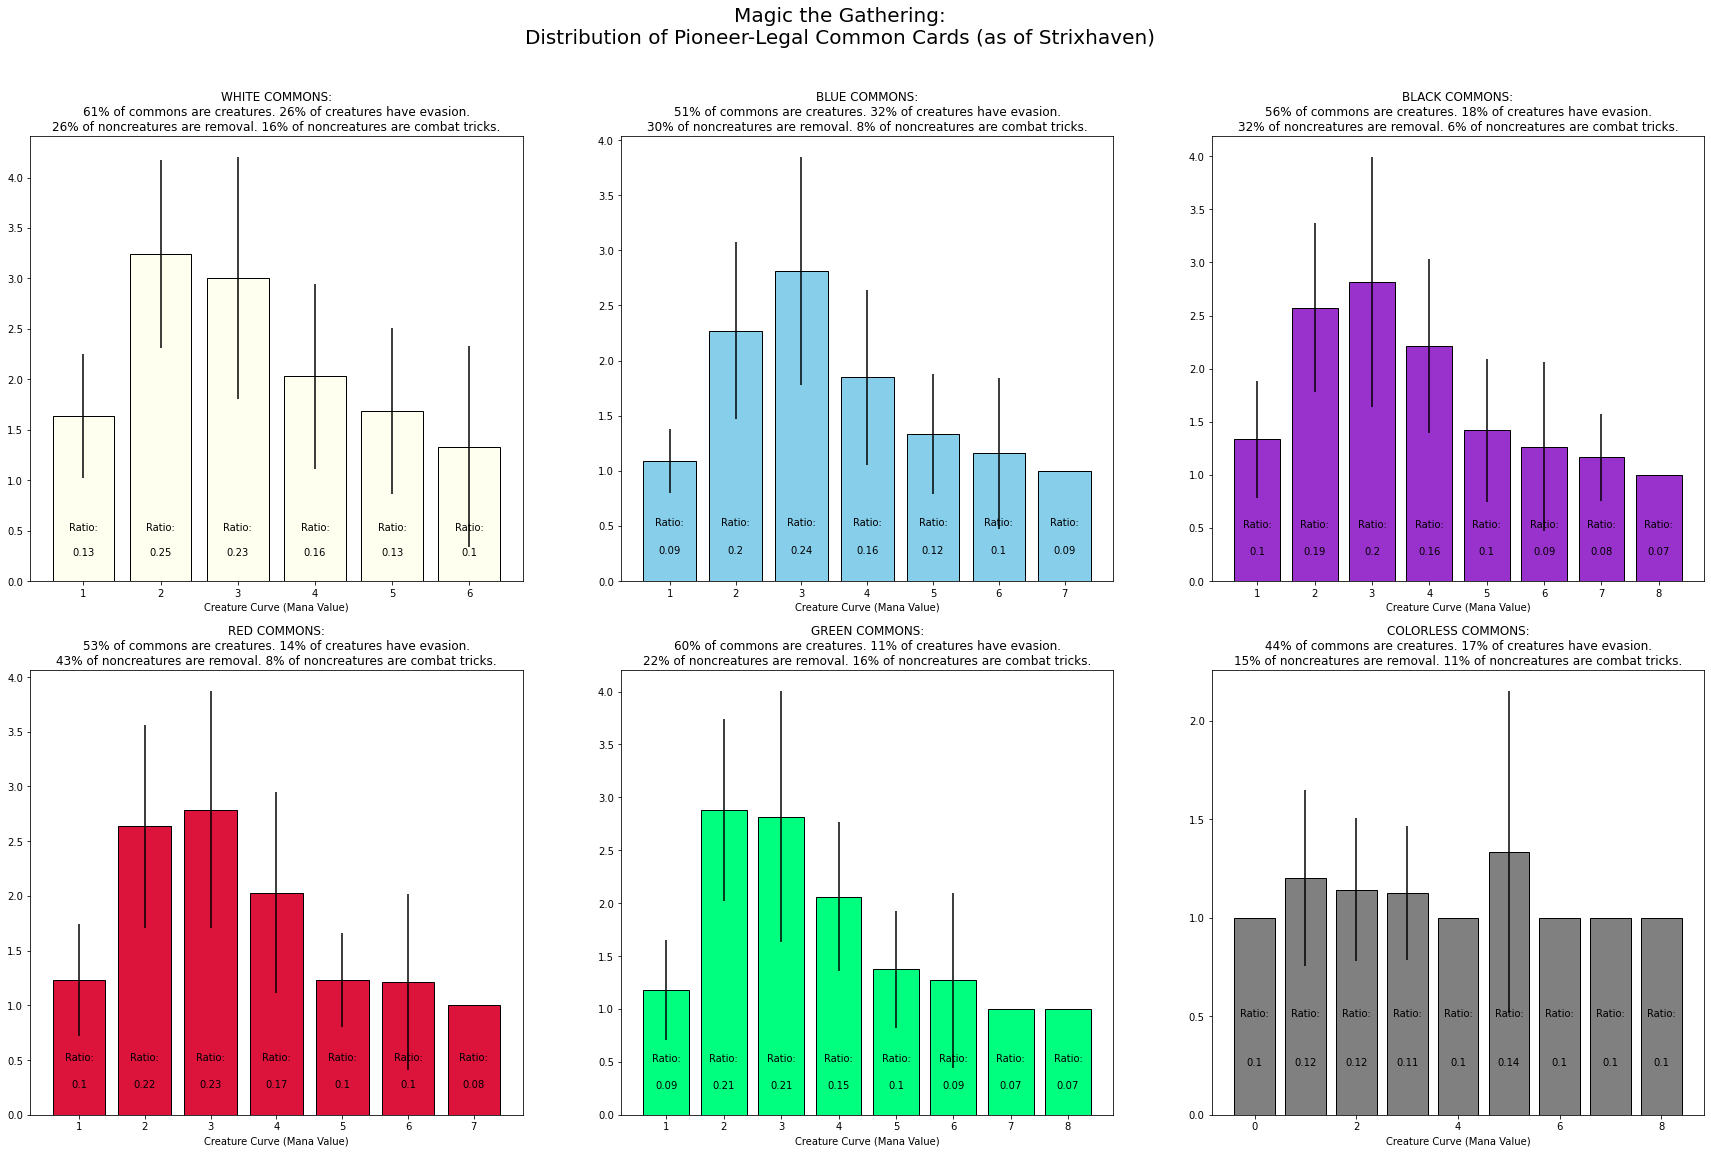
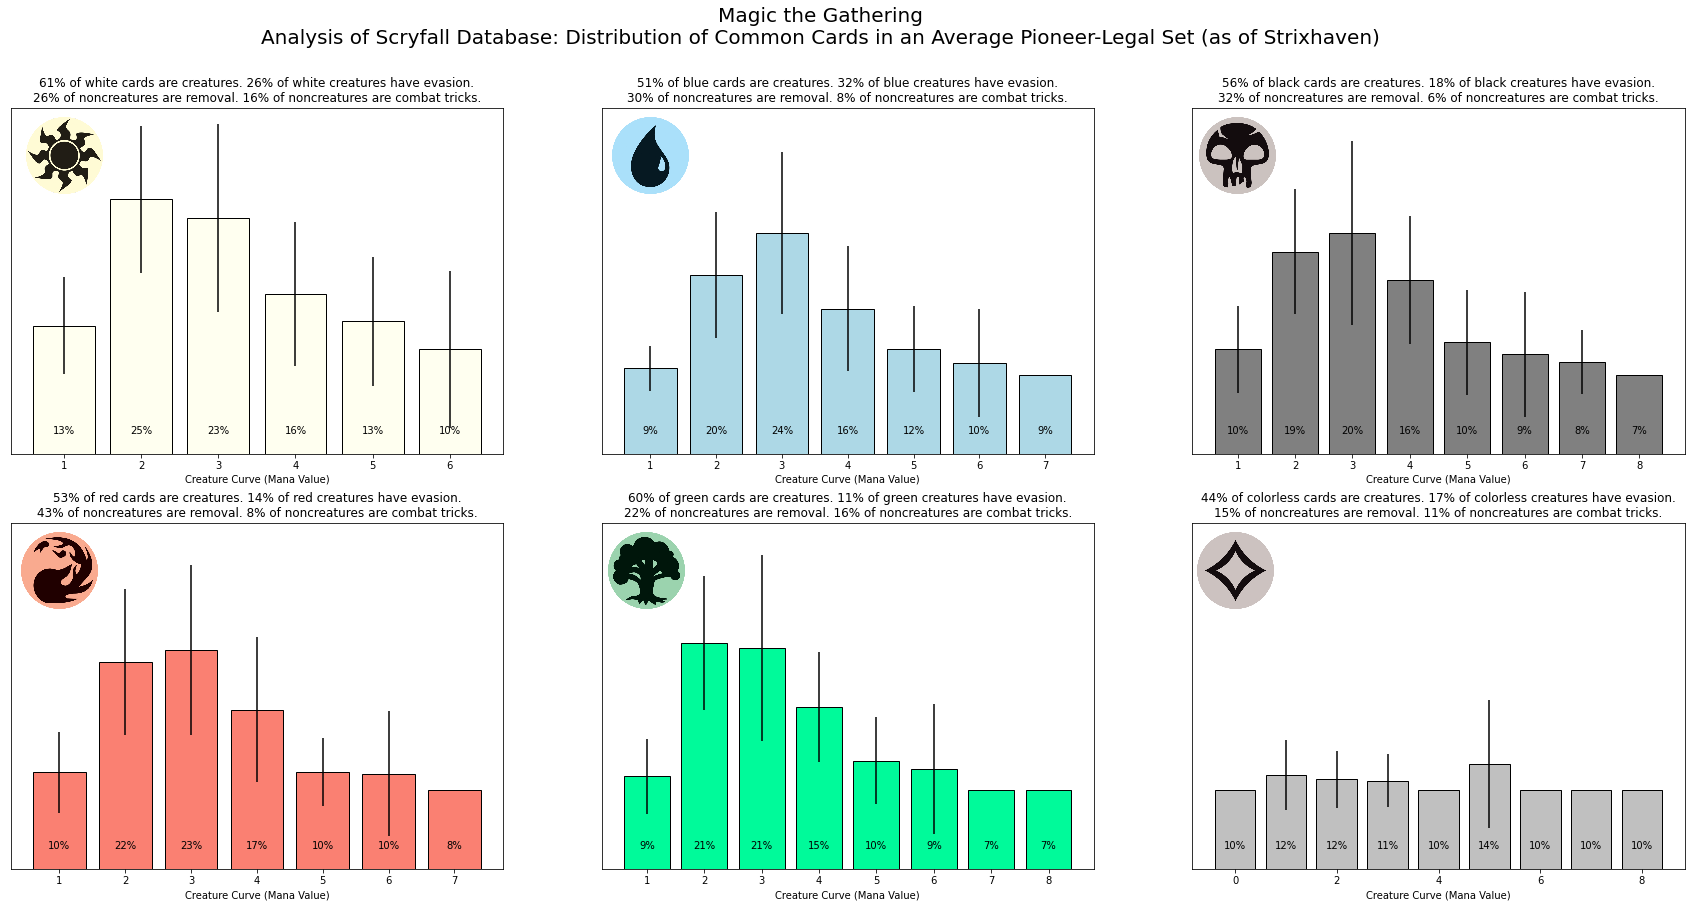
finalize scryfall analysis
added images to top left corner of each axis for clarity

diff --git a/scryfall_pioneer_commons.py b/scryfall_pioneer_commons.py
@@ -6,15 +6,13 @@ Created on Tue Jun 15 10:15:31 2021
 
 """
 
-import datetime
-print("Script last ran on", datetime.datetime.today().strftime("%m/%d/%Y"))
-
 # libraries
 import numpy as np
 import pandas as pd
 from matplotlib import pyplot as plt
+from matplotlib import image as mpimg
+from matplotlib.offsetbox import OffsetImage, AnnotationBbox
 import re
-import requests
 
 # data
 pioneer = pd.read_csv('scryfall_pioneer_20210614.csv')
@@ -104,17 +102,24 @@ def creature_curve_variables(color_identity):
     
     return creature_ratio, creatures_w_evasion, creature_curve_df, noncreature_removal_spell_ratio, noncreature_combat_trick_ratio
 
+## function for inserting images into each axis
+def create_artist(filename, x_coord, y_coord):
+    sym = mpimg.imread('images/{}.png'.format(filename))
+    imagebox = OffsetImage(sym, zoom = 0.15)
+    ab = AnnotationBbox(imagebox, (x_coord, y_coord), frameon=False)
+    return ab
+
 ## set up the plot
-fig, axs = plt.subplots(2,3)
-fig.set_figheight(18)
+fig, axs = plt.subplots(2,3, sharey=True)
+fig.set_figheight(14)
 fig.set_figwidth(30)
-fig.suptitle('Magic the Gathering:\nDistribution of Pioneer-Legal Common Cards (as of Strixhaven)', fontsize = 20)
+fig.suptitle('Magic the Gathering\nAnalysis of Scryfall Database: Distribution of Common Cards in an Average Pioneer-Legal Set (as of Strixhaven)', fontsize = 20)
 
 ## subplot 1: white
 creature_ratio_w, creatures_w_evasion_w, creature_curve_df_w, noncreature_removal_spell_ratio_w, noncreature_combat_trick_ratio_w = creature_curve_variables('[W]')
 
 ### set axis title
-axs[0,0].set_title('WHITE COMMONS:\n{} of commons are creatures. {} of creatures have evasion.\n{} of noncreatures are removal. {} of noncreatures are combat tricks.'.
+axs[0,0].set_title('{} of white cards are creatures. {} of white creatures have evasion.\n{} of noncreatures are removal. {} of noncreatures are combat tricks.'.
               format(
                   str(round(100 * creature_ratio_w)) + '%',
                   str(round(100 * creatures_w_evasion_w)) + '%',
@@ -122,6 +127,7 @@ axs[0,0].set_title('WHITE COMMONS:\n{} of commons are creatures. {} of creatures
                   str(round(100 * noncreature_combat_trick_ratio_w)) + '%')
               )
 axs[0,0].set_xlabel('Creature Curve (Mana Value)')
+axs[0,0].set_yticks([])
 
 ### plot curve
 axs[0,0].bar(x = creature_curve_df_w['cmc'], height = creature_curve_df_w['mean'], yerr = creature_curve_df_w['std'],
@@ -129,15 +135,16 @@ axs[0,0].bar(x = creature_curve_df_w['cmc'], height = creature_curve_df_w['mean'
 
 ### add text to bars
 for index, row in creature_curve_df_w.iterrows():
-    axs[0,0].text(row['cmc'], 0.5, 'Ratio:', horizontalalignment = 'center')
-    axs[0,0].text(row['cmc'], 0.25, round(row['count_ratio'], 2), horizontalalignment = 'center')
+    axs[0,0].text(row['cmc'], 0.25, str(round(100 * row['count_ratio'])) + '%', horizontalalignment = 'center')
 
+### add image to top right corner
+axs[0,0].add_artist(create_artist('white_symbol', 1, 3.8))
 
 ## subplot 2: blue
 creature_ratio_u, creatures_w_evasion_u, creature_curve_df_u, noncreature_removal_spell_ratio_u, noncreature_combat_trick_ratio_u = creature_curve_variables('[U]')
 
 ### set axis title
-axs[0,1].set_title('BLUE COMMONS:\n{} of commons are creatures. {} of creatures have evasion.\n{} of noncreatures are removal. {} of noncreatures are combat tricks.'.
+axs[0,1].set_title('{} of blue cards are creatures. {} of blue creatures have evasion.\n{} of noncreatures are removal. {} of noncreatures are combat tricks.'.
               format(
                   str(round(100 * creature_ratio_u)) + '%',
                   str(round(100 * creatures_w_evasion_u)) + '%',
@@ -145,21 +152,24 @@ axs[0,1].set_title('BLUE COMMONS:\n{} of commons are creatures. {} of creatures 
                   str(round(100 * noncreature_combat_trick_ratio_u)) + '%')
               )
 axs[0,1].set_xlabel('Creature Curve (Mana Value)')
+axs[0,1].set_yticks([])
 
 ### plot curve
 axs[0,1].bar(x = creature_curve_df_u['cmc'], height = creature_curve_df_u['mean'], yerr = creature_curve_df_u['std'],
-            color = 'skyblue', edgecolor = 'black')
+            color = 'lightblue', edgecolor = 'black')
 
 ### add text to bars
 for index, row in creature_curve_df_u.iterrows():
-    axs[0,1].text(row['cmc'], 0.5, 'Ratio:', horizontalalignment = 'center')
-    axs[0,1].text(row['cmc'], 0.25, round(row['count_ratio'], 2), horizontalalignment = 'center')
+    axs[0,1].text(row['cmc'], 0.25, str(round(100 * row['count_ratio'])) + '%', horizontalalignment = 'center')
+
+### add images to plot
+axs[0,1].add_artist(create_artist('blue_symbol', 1, 3.8))
 
 ## subplot 3: black
 creature_ratio_b, creatures_w_evasion_b, creature_curve_df_b, noncreature_removal_spell_ratio_b, noncreature_combat_trick_ratio_b = creature_curve_variables('[B]')
 
 ### set axis title
-axs[0,2].set_title('BLACK COMMONS:\n{} of commons are creatures. {} of creatures have evasion.\n{} of noncreatures are removal. {} of noncreatures are combat tricks.'.
+axs[0,2].set_title('{} of black cards are creatures. {} of black creatures have evasion.\n{} of noncreatures are removal. {} of noncreatures are combat tricks.'.
               format(
                   str(round(100 * creature_ratio_b)) + '%',
                   str(round(100 * creatures_w_evasion_b)) + '%',
@@ -167,21 +177,24 @@ axs[0,2].set_title('BLACK COMMONS:\n{} of commons are creatures. {} of creatures
                   str(round(100 * noncreature_combat_trick_ratio_b)) + '%')
               )
 axs[0,2].set_xlabel('Creature Curve (Mana Value)')
+axs[0,2].set_yticks([])
 
 ### plot curve
 axs[0,2].bar(x = creature_curve_df_b['cmc'], height = creature_curve_df_b['mean'], yerr = creature_curve_df_b['std'],
-            color = 'darkorchid', edgecolor = 'black')
+            color = 'gray', edgecolor = 'black')
 
 ### add text to bars
 for index, row in creature_curve_df_b.iterrows():
-    axs[0,2].text(row['cmc'], 0.5, 'Ratio:', horizontalalignment = 'center')
-    axs[0,2].text(row['cmc'], 0.25, round(row['count_ratio'], 2), horizontalalignment = 'center')
+    axs[0,2].text(row['cmc'], 0.25, str(round(100 * row['count_ratio'])) + '%', horizontalalignment = 'center')
+
+### add images to plot
+axs[0,2].add_artist(create_artist('black_symbol', 1, 3.8))
 
 ## subplot 4: red
 creature_ratio_r, creatures_w_evasion_r, creature_curve_df_r, noncreature_removal_spell_ratio_r, noncreature_combat_trick_ratio_r = creature_curve_variables('[R]')
 
 ### set axis title
-axs[1,0].set_title('RED COMMONS:\n{} of commons are creatures. {} of creatures have evasion.\n{} of noncreatures are removal. {} of noncreatures are combat tricks.'.
+axs[1,0].set_title('{} of red cards are creatures. {} of red creatures have evasion.\n{} of noncreatures are removal. {} of noncreatures are combat tricks.'.
               format(
                   str(round(100 * creature_ratio_r)) + '%',
                   str(round(100 * creatures_w_evasion_r)) + '%',
@@ -189,21 +202,24 @@ axs[1,0].set_title('RED COMMONS:\n{} of commons are creatures. {} of creatures h
                   str(round(100 * noncreature_combat_trick_ratio_r)) + '%')
               )
 axs[1,0].set_xlabel('Creature Curve (Mana Value)')
+axs[1,0].set_yticks([])
 
 ### plot curve
 axs[1,0].bar(x = creature_curve_df_r['cmc'], height = creature_curve_df_r['mean'], yerr = creature_curve_df_r['std'],
-            color = 'crimson', edgecolor = 'black')
+            color = 'salmon', edgecolor = 'black')
 
 ### add text to bars
 for index, row in creature_curve_df_r.iterrows():
-    axs[1,0].text(row['cmc'], 0.5, 'Ratio:', horizontalalignment = 'center')
-    axs[1,0].text(row['cmc'], 0.25, round(row['count_ratio'], 2), horizontalalignment = 'center')
+    axs[1,0].text(row['cmc'], 0.25, str(round(100 * row['count_ratio'])) + '%', horizontalalignment = 'center')
+
+### add images to plot
+axs[1,0].add_artist(create_artist('red_symbol', 1, 3.8))
 
 ## subplot 5: green
 creature_ratio_g, creatures_w_evasion_g, creature_curve_df_g, noncreature_removal_spell_ratio_g, noncreature_combat_trick_ratio_g = creature_curve_variables('[G]')
 
 ### set axis title
-axs[1,1].set_title('GREEN COMMONS:\n{} of commons are creatures. {} of creatures have evasion.\n{} of noncreatures are removal. {} of noncreatures are combat tricks.'.
+axs[1,1].set_title('{} of green cards are creatures. {} of green creatures have evasion.\n{} of noncreatures are removal. {} of noncreatures are combat tricks.'.
               format(
                   str(round(100 * creature_ratio_g)) + '%',
                   str(round(100 * creatures_w_evasion_g)) + '%',
@@ -211,21 +227,24 @@ axs[1,1].set_title('GREEN COMMONS:\n{} of commons are creatures. {} of creatures
                   str(round(100 * noncreature_combat_trick_ratio_g)) + '%')
               )
 axs[1,1].set_xlabel('Creature Curve (Mana Value)')
+axs[1,1].set_yticks([])
 
 ### plot curve
 axs[1,1].bar(x = creature_curve_df_g['cmc'], height = creature_curve_df_g['mean'], yerr = creature_curve_df_g['std'],
-            color = 'springgreen', edgecolor = 'black')
+            color = 'mediumspringgreen', edgecolor = 'black')
 
 ### add text to bars
 for index, row in creature_curve_df_g.iterrows():
-    axs[1,1].text(row['cmc'], 0.5, 'Ratio:', horizontalalignment = 'center')
-    axs[1,1].text(row['cmc'], 0.25, round(row['count_ratio'], 2), horizontalalignment = 'center')
+    axs[1,1].text(row['cmc'], 0.25, str(round(100 * row['count_ratio'])) + '%', horizontalalignment = 'center')
+
+### add images to plot
+axs[1,1].add_artist(create_artist('green_symbol', 1, 3.8))
 
 ## subplot 6: colorless
 creature_ratio_c, creatures_w_evasion_c, creature_curve_df_c, noncreature_removal_spell_ratio_c, noncreature_combat_trick_ratio_c = creature_curve_variables('[C]')
 
 ### set axis title
-axs[1,2].set_title('COLORLESS COMMONS:\n{} of commons are creatures. {} of creatures have evasion.\n{} of noncreatures are removal. {} of noncreatures are combat tricks.'.
+axs[1,2].set_title('{} of colorless cards are creatures. {} of colorless creatures have evasion.\n{} of noncreatures are removal. {} of noncreatures are combat tricks.'.
               format(
                   str(round(100 * creature_ratio_c)) + '%',
                   str(round(100 * creatures_w_evasion_c)) + '%',
@@ -233,12 +252,15 @@ axs[1,2].set_title('COLORLESS COMMONS:\n{} of commons are creatures. {} of creat
                   str(round(100 * noncreature_combat_trick_ratio_c)) + '%')
               )
 axs[1,2].set_xlabel('Creature Curve (Mana Value)')
+axs[1,2].set_yticks([])
 
 ### plot curve
 axs[1,2].bar(x = creature_curve_df_c['cmc'], height = creature_curve_df_c['mean'], yerr = creature_curve_df_c['std'],
-            color = 'gray', edgecolor = 'black')
+            color = 'silver', edgecolor = 'black')
 
 ### add text to bars
 for index, row in creature_curve_df_c.iterrows():
-    axs[1,2].text(row['cmc'], 0.5, 'Ratio:', horizontalalignment = 'center')
-    axs[1,2].text(row['cmc'], 0.25, round(row['count_ratio'], 2), horizontalalignment = 'center')
+    axs[1,2].text(row['cmc'], 0.25, str(round(100 * row['count_ratio'])) + '%', horizontalalignment = 'center')
+    
+### add images to plot
+axs[1,2].add_artist(create_artist('colorless_symbol', 0, 3.8))
